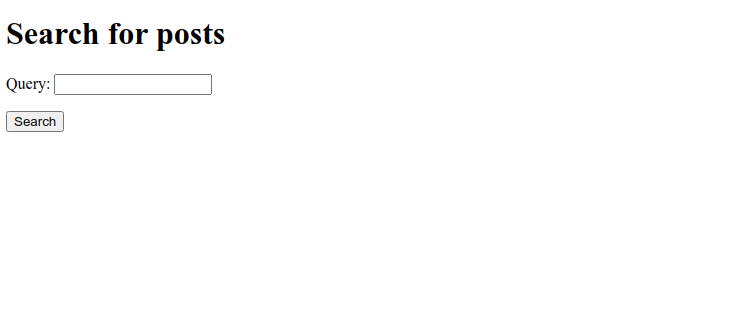
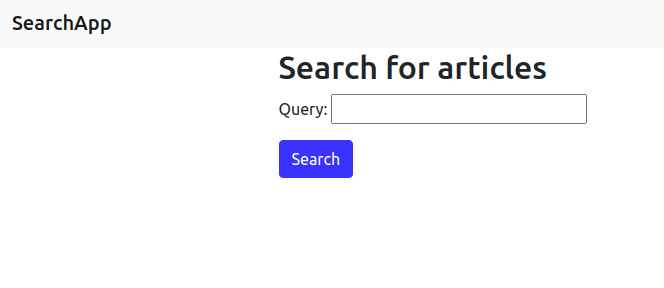
feat(core): update README, add bootstrap, change DB IP

diff --git a/django_search/search/templates/base.html b/django_search/search/templates/base.html
@@ -1,0 +1,21 @@
+<!DOCTYPE html>
+<html lang="en">
+<head>
+    <meta charset="UTF-8">
+    <meta name="viewport" content="width=device-width, initial-scale=1">
+    <title>Title</title>
+    <link href="https://cdn.jsdelivr.net/npm/bootstrap@5.0.0-beta2/dist/css/bootstrap.min.css" rel="stylesheet" integrity="sha384-BmbxuPwQa2lc/FVzBcNJ7UAyJxM6wuqIj61tLrc4wSX0szH/Ev+nYRRuWlolflfl" crossorigin="anonymous">
+
+</head>
+<body>
+<!-- As a heading -->
+<nav class="navbar navbar-light bg-light">
+  <div class="container-fluid">
+    <span class="navbar-brand mb-0 h1">SearchApp</span>
+  </div>
+</nav>
+{% block content %}{% endblock %}
+</body>
+<script src="https://cdn.jsdelivr.net/npm/@popperjs/core@2.6.0/dist/umd/popper.min.js" integrity="sha384-KsvD1yqQ1/1+IA7gi3P0tyJcT3vR+NdBTt13hSJ2lnve8agRGXTTyNaBYmCR/Nwi" crossorigin="anonymous"></script>
+<script src="https://cdn.jsdelivr.net/npm/bootstrap@5.0.0-beta2/dist/js/bootstrap.min.js" integrity="sha384-nsg8ua9HAw1y0W1btsyWgBklPnCUAFLuTMS2G72MMONqmOymq585AcH49TLBQObG" crossorigin="anonymous"></script>
+</html>

diff --git a/django_search/search/templates/search.html b/django_search/search/templates/search.html
@@ -1,14 +1,10 @@
-<!DOCTYPE html>
-<html lang="en">
-<head>
-    <meta charset="UTF-8">
-    {% block title %}Search{% endblock %}
-</head>
-<body>
+{% extends "base.html" %}
+{% block title %}Search{% endblock %}
 {% block content %}
 
 {% if query %}
-<h1>Articles containing "{{ query }}"</h1>
+<div class="container">
+<h2>Articles containing "{{ query }}"</h2>
 <h3>
 {% with results.count as total_results %}
 Found {{ total_results }} result{{ total_results|pluralize }}
@@ -23,16 +19,16 @@ Found {{ total_results }} result{{ total_results|pluralize }}
 {% endfor %}
 
 <p><a href='{% url "article_search" %}'>Search again</a></p>
+</div>
 {% else %}
-
-<h1>Search for articles</h1>
+<div class="container">
+<h2>Search for articles</h2>
 
 <form method="get">
 {{ form.as_p }}
-<input type="submit" value="Search">
+<input type="submit" class="btn btn-primary" value="Search">
 </form>
+</div>
 {% endif %}
 
 {% endblock %}
-</body>
-</html>

diff --git a/django_search/django_search/settings.py b/django_search/django_search/settings.py
@@ -82,7 +82,7 @@ DATABASES = {
         'NAME': os.environ.get("DJANGO_DATABASE"),
         'USER': 'postgres',
         'PASSWORD': os.environ.get("DJANGO_DATABASE_PASS"),
-        'HOST': '192.168.100.10',
+        'HOST': os.environ.get("DJANGO_DATABASE_IP"),
         'PORT': '5432'
     }
 }

diff --git a/README.md b/README.md
@@ -70,7 +70,7 @@ Test the functionality by navigating to the link http://localhost:8000/search/, 
 
 The results of the search will be displayed as shown in the following screenshot: 
 
-![search results page](res/Search-results.png)
+![search results page](res/search-results.png)
 
 ## Serving the application using uwsgi
 The uWSGI application server is responsible for serving the django application in a versatile, low-resource consumption 
@@ -109,7 +109,12 @@ Navigate to  http://localhost:8000/search/ to access the search application.
 ## Serving the application with Nginx
 Create a folder called nginx in the root project folder and add a dockerfile and a docker-compose file for setting up a 
 reverse proxy server using Nginx. Update the docker-compose file by adding a service called nginx with `build` and `ports`
-configurations.
+configurations. After that, bring down the container and build the new containers as shown below:
+
+```code
+docker-compose down
+docker-compose up -d --build
+``` 
 
 ##Areas for improvement
 This guide illustrated how to setup a Django application, uwsgi and Nginx using Docker. A few things to for refinement 
